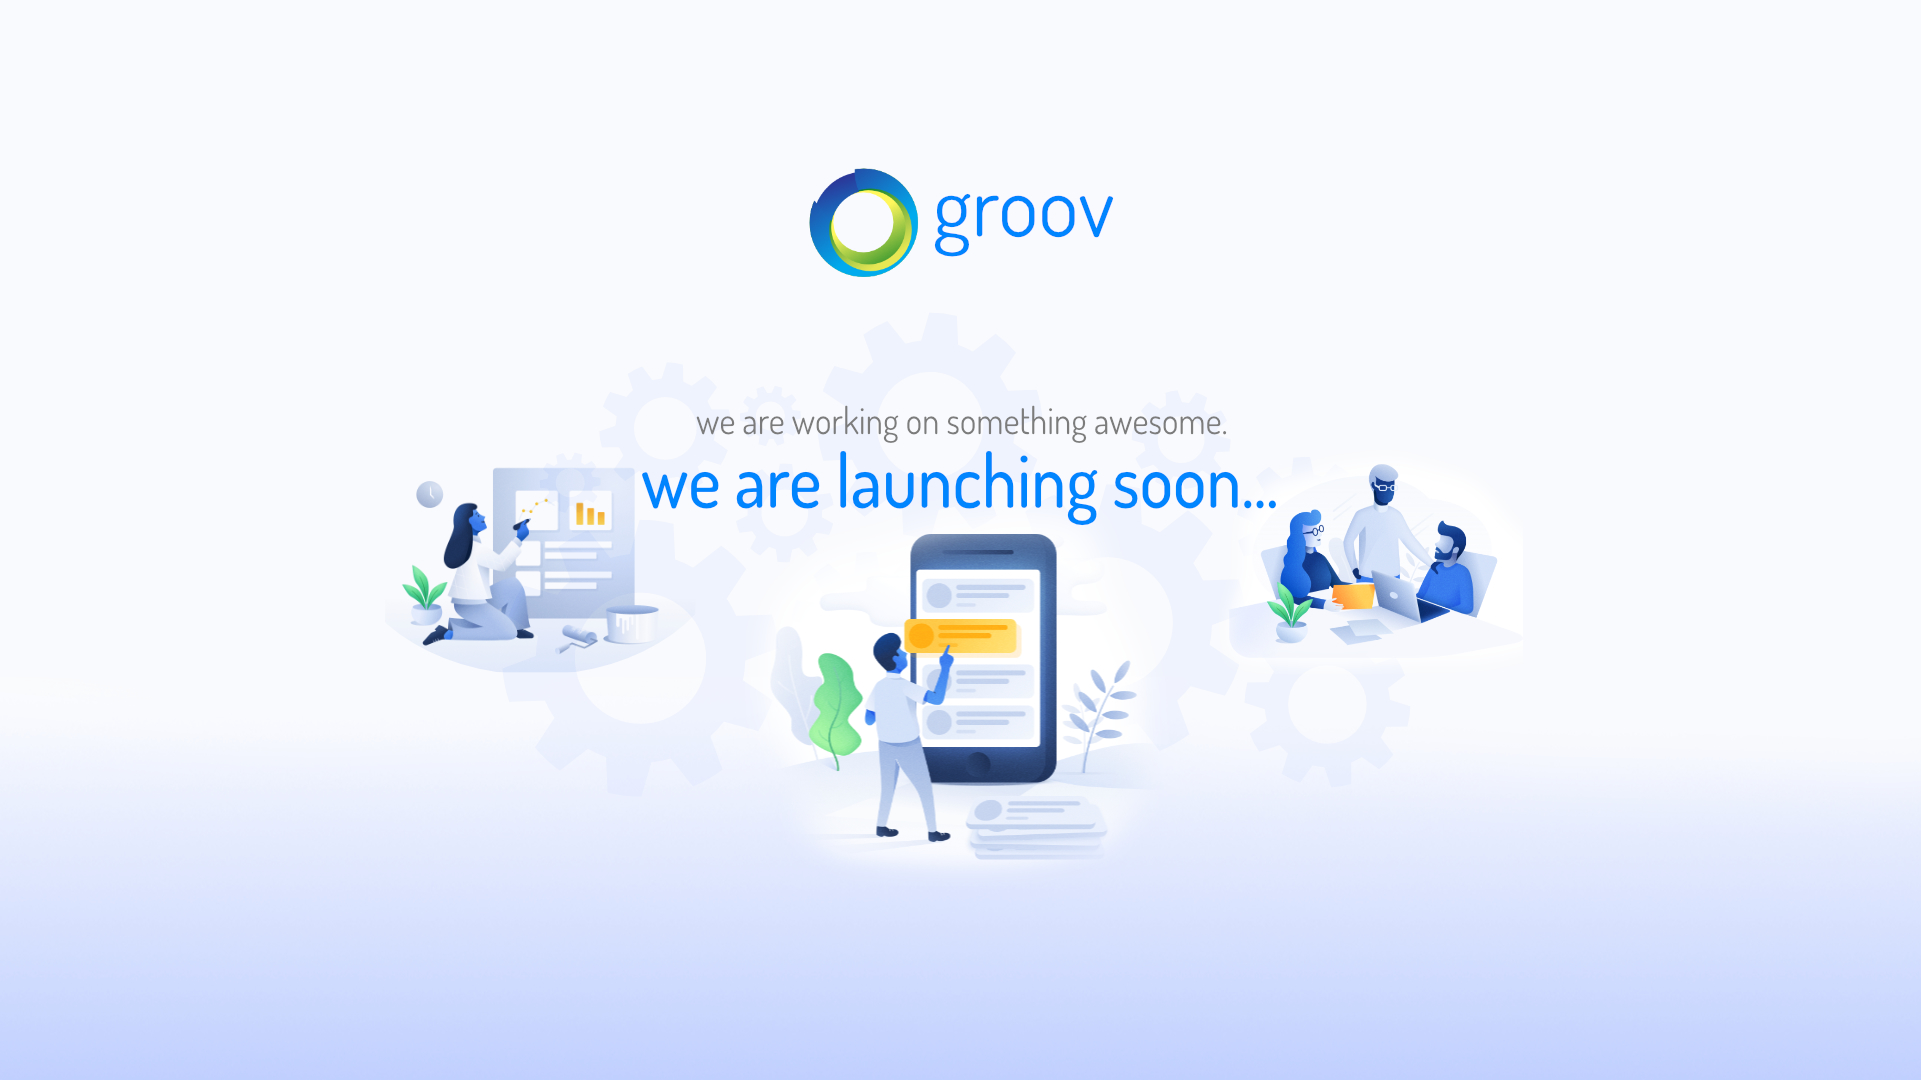
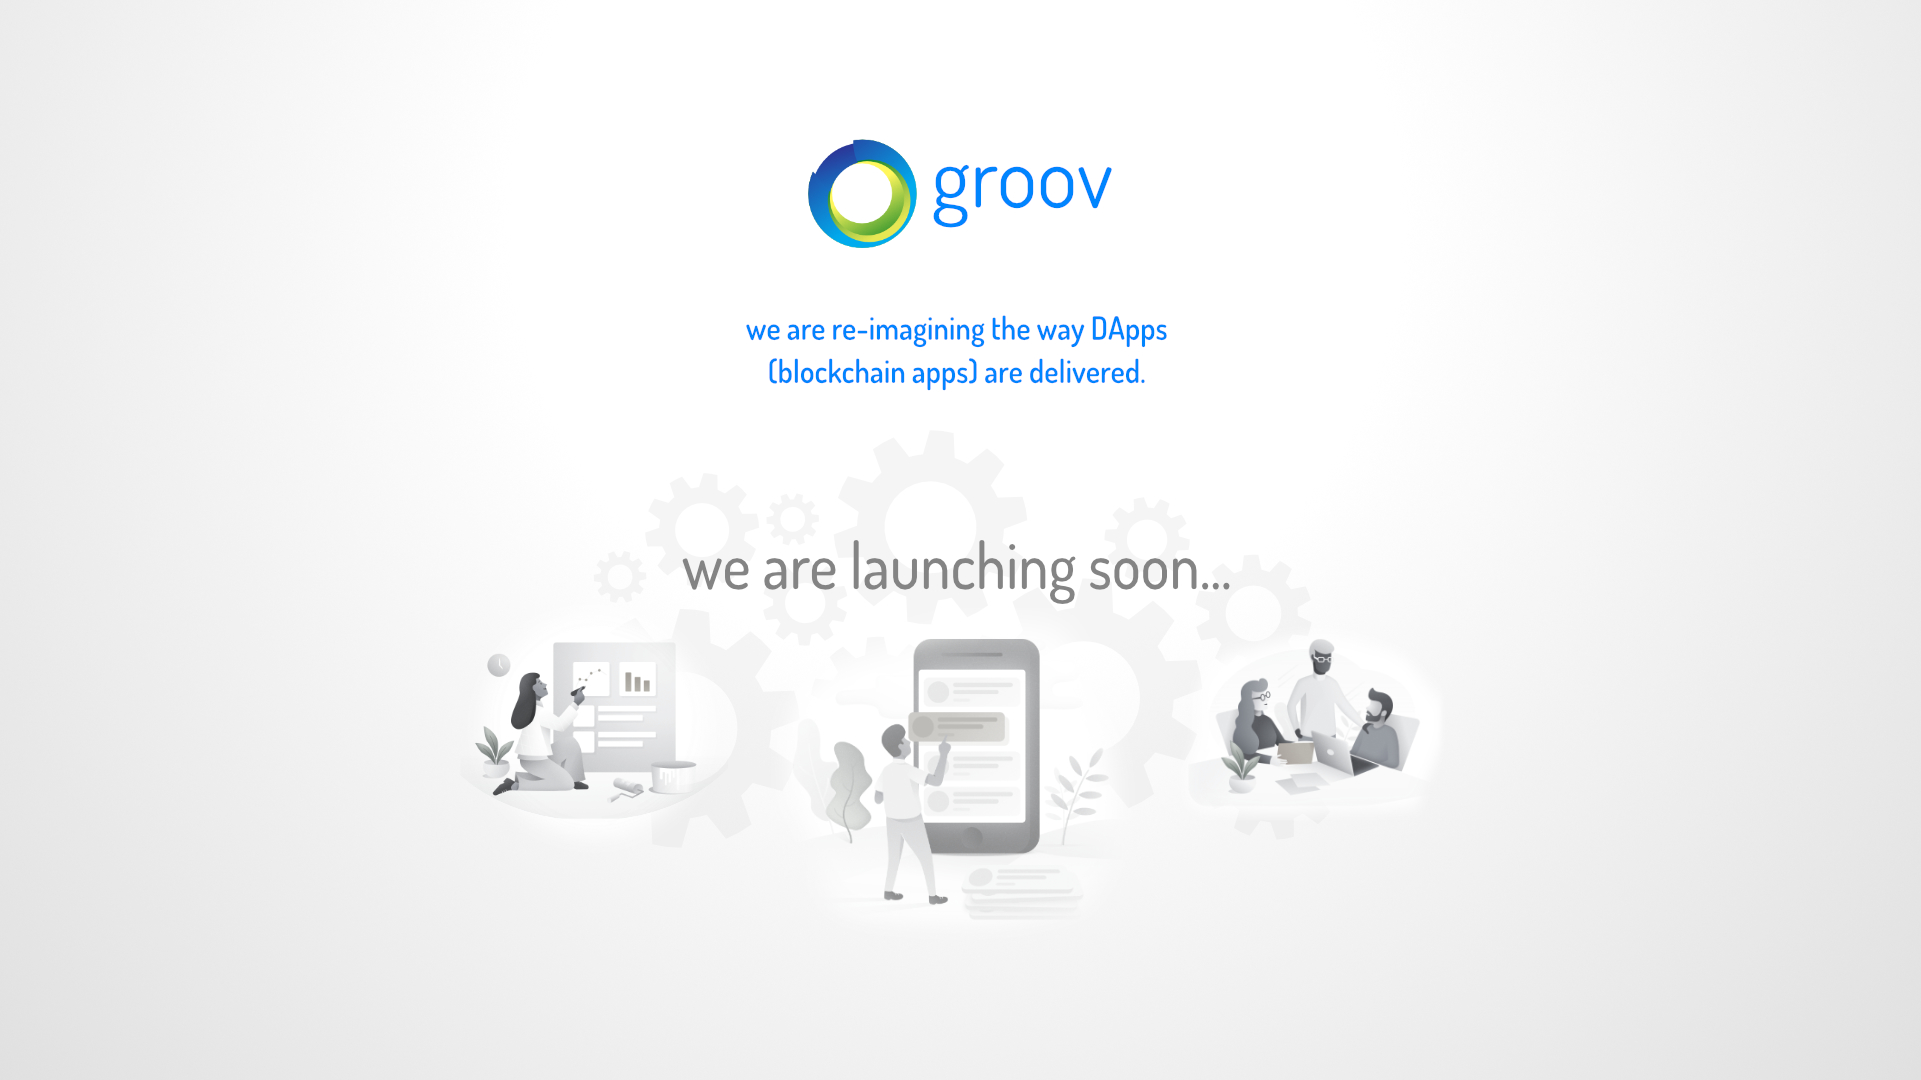
Graphic update

Changed region(s): [[0.0, 0.275, 1.0, 1.0], [0.406, 0.1222, 0.5934, 0.275]]

diff --git a/index.html b/index.html
@@ -1,14 +1,10 @@
 <!doctype html>
 <html lang="en">
-
 <head>
-
+	<title>Groov - We are re-imagining the way DApps (Blockchain apps) are delivered.</title>
 	<link rel="stylesheet" type="text/css" href="css/style.css">
-
 </head>
 <body>
-<img src = "images/ComingSoon2.jpg" />
-</body
-	
-
+	<img src = "images/ComingSoon2.jpg" />
+</body>
 </html>
